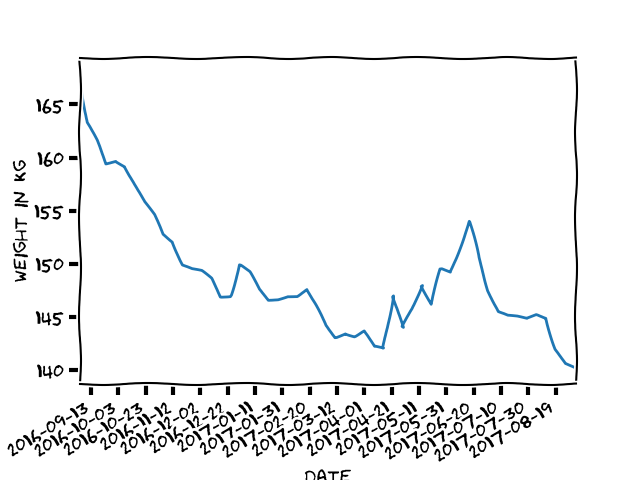
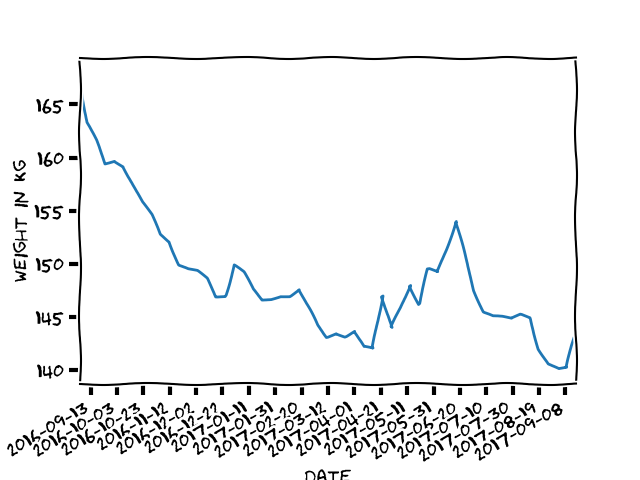
Week 38 update

diff --git a/index.html b/index.html
@@ -30,6 +30,22 @@
   </thead>
   <tbody>
     <tr>
+      <th>2017-09-16</th>
+      <td>144.0</td>
+      <td>3.8</td>
+      <td>-24.0</td>
+      <td>43.0</td>
+      <td>1.7</td>
+    </tr>
+    <tr>
+      <th>2017-09-09</th>
+      <td>140.2</td>
+      <td>0.1</td>
+      <td>-27.8</td>
+      <td>41.9</td>
+      <td>1.7</td>
+    </tr>
+    <tr>
       <th>2017-09-03</th>
       <td>140.1</td>
       <td>-0.5</td>
